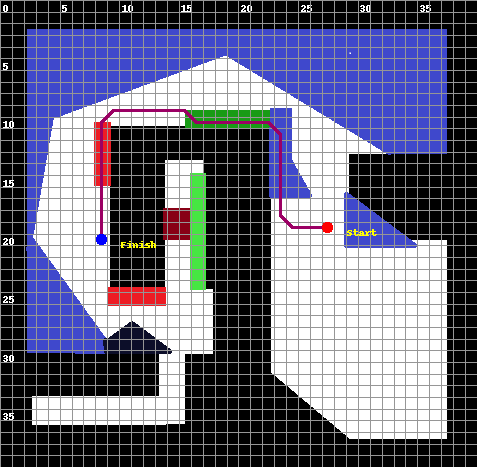
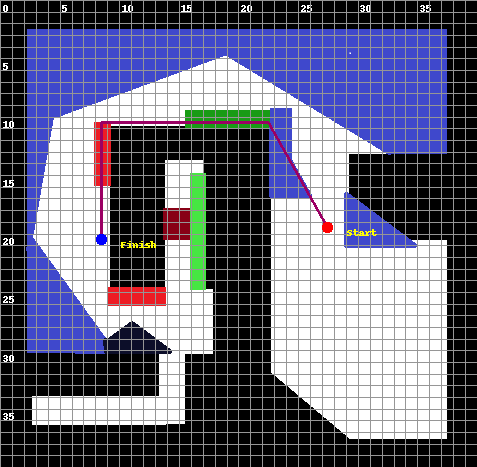
theta

Changed region(s): [[0.587, 0.2998, 0.6751, 0.5096], [0.2055, 0.2099, 0.4109, 0.2698], [0.5577, 0.2698, 0.587, 0.2998]]

diff --git a/LAB/P3/src/PathPlanPrinter/src/theta.py b/LAB/P3/src/PathPlanPrinter/src/theta.py
@@ -1,0 +1,147 @@
+
+import path_planning as pp
+
+def children(point,grid):
+    """
+        Calculates the children of a given node over a grid.
+        Inputs:
+            - point: node for which to calculate children.
+            - grid: grid over which to calculate children.
+        Outputs:
+            - list of children for the given node.
+    """
+    x,y = point.grid_point
+    if x > 0 and x < len(grid) - 1:
+        if y > 0 and y < len(grid[0]) - 1:
+            links = [grid[d[0]][d[1]] for d in\
+                     [(x-1, y),(x,y - 1),(x,y + 1),(x+1,y),\
+                      (x-1, y-1), (x-1, y+1), (x+1, y-1),\
+                      (x+1, y+1)]]
+        elif y > 0:
+            links = [grid[d[0]][d[1]] for d in\
+                     [(x-1, y),(x,y - 1),(x+1,y),\
+                      (x-1, y-1), (x+1, y-1)]]
+        else:
+            links = [grid[d[0]][d[1]] for d in\
+                     [(x-1, y),(x,y + 1),(x+1,y),\
+                      (x-1, y+1), (x+1, y+1)]]
+    elif x > 0:
+        if y > 0 and y < len(grid[0]) - 1:
+            links = [grid[d[0]][d[1]] for d in\
+                     [(x-1, y),(x,y - 1),(x,y + 1),\
+                      (x-1, y-1), (x-1, y+1)]]
+        elif y > 0:
+            links = [grid[d[0]][d[1]] for d in\
+                     [(x-1, y),(x,y - 1),(x-1, y-1)]]
+        else:
+            links = [grid[d[0]][d[1]] for d in\
+                     [(x-1, y), (x,y + 1), (x-1, y+1)]]
+    else:
+        if y > 0 and y < len(grid[0]) - 1:
+            links = [grid[d[0]][d[1]] for d in\
+                     [(x+1, y),(x,y - 1),(x,y + 1),\
+                      (x+1, y-1), (x+1, y+1)]]
+        elif y > 0:
+            links = [grid[d[0]][d[1]] for d in\
+                     [(x+1, y),(x,y - 1),(x+1, y-1)]]
+        else:
+            links = [grid[d[0]][d[1]] for d in\
+                     [(x+1, y), (x,y + 1), (x+1, y+1)]]
+    return [link for link in links if link.value != 9]
+
+def theta(start, goal, grid, heur='naive', scale=1):
+  opened = set()
+  closed = set()
+  current = start
+  opened.add(current)
+  while opened:
+    current = min(opened, key=lambda node: node.G + node.H)
+    pp.expanded_nodes += 1
+    if current == goal:
+      path = [current]
+      while current.parent:
+        current = current.parent
+        path.append(current)
+      return path[::-1]
+    opened.remove(current)
+    closed.add(current)
+    for node in children(current,grid):
+      if node in closed: continue
+      if current.parent and line_of_sight (current.parent, node):
+        new_g = current.parent.G + current.parent.move_cost(node)
+        if node in opened:
+          if node.G > new_g:
+            node.G = new_g
+            node.parent = current.parent
+        else:
+          node.G = new_g
+          node.H = pp.heuristic[heur](node, goal, scale)
+          node.parent = current.parent
+          opened.add(node)
+      else:
+        new_g = current.G + current.move_cost(node)
+        if node in opened:
+          if node.G > new_g:
+            node.G = new_g
+            node.parent = current
+        else:
+          node.G = new_g
+          node.H = pp.heuristic[heur](node, goal, scale)
+          node.parent = current
+          opened.add(node)
+  raise ValueError('No Path Found')
+pp.register_search_method('theta', theta)
+
+def is_obstacle(x, y):
+  return pp.npdata[int(x)][int(y)]==0
+
+def line_of_sight (n0, n1):
+  x0, y0 = n0.point
+  x1, y1 = n1.point
+  dx = x1 - x0
+  dy = y1 - y0
+  f = 0
+  if dy < 0:
+    dy = -dy
+    sy = -1
+  else:
+    sy = 1
+  if dx < 0:
+    dx = -dx
+    sx = -1
+  else:
+    sx = 1
+  if dx >= dy:
+    while x0 != x1:
+      f += dy
+      gx = x0 + (sx - 1)/2
+      gy = y0 + (sy - 1)/2
+      if f >= dx:
+        if is_obstacle(gx, gy):
+          return False
+        y0 += sy
+        f -= dx
+      if f!=0 and is_obstacle(gx, gy):
+        return False
+      if dy==0 and is_obstacle(gx, y0) and is_obstacle(gx, y0-1):
+        return False
+      x0 += sx
+  else:
+    while y0 != y1:
+      f += dx
+      gx = x0 + (sx - 1)/2
+      gy = y0 + (sy - 1)/2
+      if f >= dy:
+        if is_obstacle(gx, gy):
+          return False
+        x0 += sx
+        f -= dy
+      if f!=0 and is_obstacle(gx, gy):
+        return False
+      if dy==0 and is_obstacle(x0, gy) and is_obstacle(x0-1, gy):
+        return False
+      y0 += sy
+  return True
+
+
+

diff --git a/LAB/P3/src/PathPlanPrinter/src/aStar.py b/LAB/P3/src/PathPlanPrinter/src/aStar.py
@@ -110,11 +110,10 @@ def aStar(start, goal, grid, heur='naive', scale=1):
         pp.expanded_nodes += 1
         #If it is the item we want, retrace the path and return it
         if current == goal:
-            path = []
+            path = [current]
             while current.parent:
-                path.append(current)
                 current = current.parent
-            path.append(current)
+                path.append(current)
             return path[::-1]
         #Remove the item from the open set
         openset.remove(current)
@@ -123,19 +122,18 @@ def aStar(start, goal, grid, heur='naive', scale=1):
         #Loop through the node's children/siblings
         for node in children(current,grid):
             #If it is already in the closed set, skip it
-            if node in closedset:
-                continue
+            if node in closedset: continue
             #Otherwise if it is already in the open set
+            new_g = current.G + current.move_cost(node)
             if node in openset:
                 #Check if we beat the G score 
-                new_g = current.G + current.move_cost(node)
                 if node.G > new_g:
                     #If so, update the node to have a new parent
                     node.G = new_g
                     node.parent = current
             else:
                 #If it isn't in the open set, calculate the G and H score for the node
-                node.G = current.G + current.move_cost(node)
+                node.G = new_g
                 node.H = pp.heuristic[heur](node, goal, scale)
                 #Set the parent to our current item
                 node.parent = current
@@ -175,11 +173,10 @@ def aStar_mesh(start, goal, grid, heur='naive', scale=1):
         pp.expanded_nodes += 1
         #If it is the item we want, retrace the path and return it
         if current == goal:
-            path = []
+            path = [current]
             while current.parent:
-                path.append(current)
                 current = current.parent
-            path.append(current)
+                path.append(current)
             return path[::-1]
         #Remove the item from the open set
         openset.remove(current)
@@ -188,19 +185,18 @@ def aStar_mesh(start, goal, grid, heur='naive', scale=1):
         #Loop through the node's children/siblings
         for node in current.neighbors.values():
             #If it is already in the closed set, skip it
-            if node in closedset:
-                continue
+            if node in closedset: continue
             #Otherwise if it is already in the open set
+            new_g = current.G + current.move_cost(node)
             if node in openset:
                 #Check if we beat the G score 
-                new_g = current.G + current.move_cost(node)
                 if node.G > new_g:
                     #If so, update the node to have a new parent
                     node.G = new_g
                     node.parent = current
             else:
                 #If it isn't in the open set, calculate the G and H score for the node
-                node.G = current.G + current.move_cost(node)
+                node.G = new_g
                 node.H = pp.heuristic[heur](node, goal, scale)
                 #Set the parent to our current item
                 node.parent = current

diff --git a/LAB/P3/src/PathPlanPrinter/src/path_planning.py b/LAB/P3/src/PathPlanPrinter/src/path_planning.py
@@ -1,5 +1,3 @@
-#!/usr/bin/env python
-
 """ This module defines general path planning utilities.
 
 It accounts for two different kinds environments over which to perform
@@ -346,3 +344,4 @@ def output_image(name, path, out_path=''):
 import heuristics
 import aStar
 import dijkstra
+import theta

diff --git a/LAB/P3/src/PathPlanPrinter/src/dijkstra.py b/LAB/P3/src/PathPlanPrinter/src/dijkstra.py
@@ -1,5 +1,3 @@
-#!/usr/bin/env python
-
 """ This module implements Dijkstra's path planning algorithm.
 
 Two variants are included: grid-based, and mesh-based.

diff --git a/LAB/P3/README.md b/LAB/P3/README.md
@@ -1,0 +1,18 @@
+
+
+### Heuristics
+
+The heuristic implementation has been taken from [Stanford.edu](http://theory.stanford.edu/~amitp/GameProgramming/Heuristics.html).
+
+* Manhattan: great for maps that allow 4 movements at each grid point.
+* Octile: great for maps that allow 8 movements at each grid point.
+* Chebyshev: great for maps that allow 4 movements at each grid point.
+* Euclidean: grat for maps that allow any movement at each grid point.
+
+Every heuristic implemented can be configured with a scale factor.
+This cale factor directly multiplies the value obtained from the heuristic.
+If it is about the correct magnitude will reduce the amount of nodes that are expanded.
+
+* A scale factor of 0 transforms A* in dijkstra algorithm.
+* A scale factor of infinite transforms A* in a greedy algorithm that strictly follows the provided heuristic.
+* The ideal scale factor is about: (minimum cost of taking one step)/(expected maximum path length)
